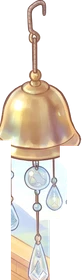
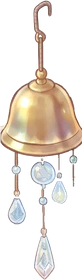
Build 476: Flight: the bell re-cut (Maria, IMG_9848: «Колокольчик тоже плохо вырезан»): its chimes kept rectangles of the window, sky and frame behind them; now every part (bell, hook, beads, glass drops) is filled from inside up to its own outline and the strings keyed by colour, nothing of the win

diff --git a/js/game.js b/js/game.js
@@ -1,15 +1,15 @@
 // Magic school idle tycoon — v0.3: isometric campus with walking creatures.
 import './clock.js?v=470';   // build audit 2026-11-24: trusted clock (server time), must stay the first import
-import './edit_guard.js?v=475';   // room editor (?edit only): in-memory storage, no cloud
+import './edit_guard.js?v=476';   // room editor (?edit only): in-memory storage, no cloud
 import {
   OFFLINE_CAP_SEC, MAX_DESKS, MAX_ITEM_LEVEL, MAX_TEACHER_LEVEL, MAX_TIME_LEVEL,
   CLASSES, SPECIES, NAMES, MISSIONS, WORLDS, WORLD, META,
-} from './data.js?v=475';
-import { EMOJI_RE, emojiImage, preloadEmoji, watchEmoji, emojiHtml } from './emoji.js?v=475';
-import { initMinigame } from './minigame.js?v=475';
-import { initChests } from './chests.js?v=475';
-import { initLore } from './lore.js?v=475';
-import { initAvatar } from './avatar.js?v=475';
+} from './data.js?v=476';
+import { EMOJI_RE, emojiImage, preloadEmoji, watchEmoji, emojiHtml } from './emoji.js?v=476';
+import { initMinigame } from './minigame.js?v=476';
+import { initChests } from './chests.js?v=476';
+import { initLore } from './lore.js?v=476';
+import { initAvatar } from './avatar.js?v=476';
 // mini-game «Зельеварка» (match-3, js/minigame.js): a pill on the main screen, its own overlay; the school keeps living under it
 const MG = initMinigame({ state: () => S, earn: (n) => bonus(n), rate: () => rateNow(), save: () => save(), stones: () => stones(), spendStones: (n) => stonesAdd(-n), toast: (t) => toast(t), fmt: (n) => fmt(n), emojiHtml, emojiImage,
   audioOut: () => { if (!sfxOn() || document.hidden) return null; const c = audio(); return c && c.state === 'running' ? { c, out: AOUT } : null; },
@@ -32,7 +32,7 @@ const LORE = initLore({ state: () => S, save: () => save(), emojiHtml, on: () =>
 const SAVE_KEY = WORLD === 1 ? 'magicschool.save.v2' : 'magicschool.save.v2.w' + WORLD;   // every world keeps its own save
 const saveKeyOf = (w) => (w === 1 ? 'magicschool.save.v2' : 'magicschool.save.v2.w' + w);
 const VERSION = '0.9';
-const BUILD = 475;   // keep equal to the ?v= number in index.html
+const BUILD = 476;   // keep equal to the ?v= number in index.html
 const $ = (s, r = document) => r.querySelector(s);
 const rnd = (a) => a[Math.floor(Math.random() * a.length)];
 
@@ -3656,7 +3656,7 @@ function drawWallDecor(c, id) {
 // furniture of a themed class: corners at the back, a bookcase by the left wall, small things in the free strip in front
 // ---- redesigned rooms: built-in, staged furnishing items (stage 0 = not bought, 1 = lvl 1-9, 2 = 10-24, 3 = 25-39, 4 = 40)
 const ITEM_IMS = {};
-function itemIm(n) { if (layCur && !layCur.n) layCur.n = n; let im = ITEM_IMS[n]; if (!im) { im = ITEM_IMS[n] = new Image(); im.src = `assets/parts/items/${n}.webp?v=${n === 'pot_hearth' || n === 'fl_hoop' || n === 'fl_basket' ? 3 : 2}`; } return im.complete && im.naturalWidth ? im : null; }
+function itemIm(n) { if (layCur && !layCur.n) layCur.n = n; let im = ITEM_IMS[n]; if (!im) { im = ITEM_IMS[n] = new Image(); im.src = `assets/parts/items/${n}.webp?v=${n === 'pot_hearth' || n === 'fl_hoop' || n === 'fl_basket' || n === 'fl_bell' ? 3 : 2}`; } return im.complete && im.naturalWidth ? im : null; }
 const stageOf = (lv) => (!lv ? 0 : lv < 10 ? 1 : lv < 25 ? 2 : lv < 40 ? 3 : 4);
 function itemDraw(n, x, y, h, o = {}) {   // a sprite standing on tile (x, y): bottom-centre on the floor point, lift = px above the floor
   const im = itemIm(n); if (!im) return null; const p = P(x, y), w = h * im.naturalWidth / im.naturalHeight, top = p.y + (o.down || 0) - (o.lift || 0) - h;
@@ -7059,5 +7059,5 @@ if (EDIT) {   // room editor: js/editor.js gets the game's room tools
     get zoom() { return zoom; }, get scale() { return scale; }, get dpr() { return dpr; }, scroller, canvas,
     get layout() { return RLAY; }, setLayout, entries: () => LAY_ENT.slice(), walls: (th) => (LAY_WALLS[th] || []).slice(), layPos, layIm, texPart, thumb: (n, th) => { const im = n && (ITEM_IMS[n] || parts[th + '/' + n] || parts[th + '/iso_' + n] || LAY_IMS[n]); return im ? im.src : ''; },
     zoomAt: (z, x, y) => { setZoom(z, 0, 0, 0, 0); focusTile(x, y, false); } };
-  import('./editor.js?v=475').then((m) => m.initEditor(window.__EDIT_API)).catch((e) => { console.error(e); alert('Редактор не загрузился: ' + e.message); });
+  import('./editor.js?v=476').then((m) => m.initEditor(window.__EDIT_API)).catch((e) => { console.error(e); alert('Редактор не загрузился: ' + e.message); });
 }

diff --git a/index.html b/index.html
@@ -12,7 +12,7 @@
 <link rel="manifest" href="manifest.webmanifest">
 <link rel="apple-touch-icon" href="icons/icon-180.png?v=2">
 <link rel="icon" href="icons/icon-192.png?v=2">
-<link rel="stylesheet" href="style.css?v=475">
+<link rel="stylesheet" href="style.css?v=476">
 <script>/* iOS home-screen app: innerHeight / 100% / 100dvh are short by the status bar, a strip stayed at the bottom (her screenshots, builds 200-203); use the real screen height */
 (function(){function fit(){if(!(navigator.standalone||matchMedia('(display-mode: standalone)').matches))return;var h=Math.max(window.innerHeight,(Math.abs(window.orientation||0)===90?screen.width:screen.height));var r=document.documentElement;r.style.height=h+'px';if(document.body){document.body.style.height=h+'px';document.body.style.bottom='auto';}}fit();addEventListener('DOMContentLoaded',fit);addEventListener('resize',fit);addEventListener('orientationchange',function(){setTimeout(fit,300);});})();</script>
 </head>
@@ -72,6 +72,6 @@ setTimeout(function(){ if (window.__booted) return; var d=document.createElement
   d.querySelector('button').onclick=function(){ location.reload(); }; document.body.appendChild(d); }, 12000);
 if(!CanvasRenderingContext2D.prototype.roundRect){CanvasRenderingContext2D.prototype.roundRect=function(x,y,w,h){this.rect(x,y,w,h);};}
 </script>
-<script type="module" src="js/game.js?v=475"></script>
+<script type="module" src="js/game.js?v=476"></script>
 </body>
 </html>

diff --git a/js/emoji.js b/js/emoji.js
@@ -1,6 +1,6 @@
 // One emoji look on every device: emoji characters are replaced by bundled Twemoji pictures
 // (CC-BY 4.0, https://github.com/jdecked/twemoji), both in the page (DOM) and on the canvas.
-import { EMOJI_FILES } from './emoji-set.js?v=475';
+import { EMOJI_FILES } from './emoji-set.js?v=476';
 
 export const EMOJI_RE = /\p{Extended_Pictographic}(?:|\p{Extended_Pictographic}?|[\u{1F3FB}-\u{1F3FF}])*/gu;
 
